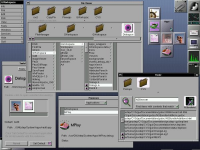
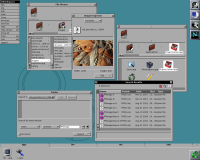
updated and enlarged gworkspace screenshots

diff --git a/experience/apps.html b/experience/apps.html
@@ -1,19 +1,18 @@
-<?xml version="1.0" encoding="utf-8"?>
-<!DOCTYPE html PUBLIC "-//W3C//DTD XHTML 1.0 Transitional//EN"
-    "http://www.w3.org/TR/xhtml1/DTD/xhtml1-transitional.dtd">
+<!DOCTYPE HTML PUBLIC "-//W3C//DTD XHTML 1.0 Transitional//EN" "http://www.w3.org/TR/xhtml1/DTD/xhtml1-transitional.dtd">
 <html xmlns="http://www.w3.org/1999/xhtml">
 <head>
-<title>GNUstep: User Applications</title>
-<link type="text/css" rel="stylesheet" href= "../gnustep-main.css" />
-<style type="text/css" media="screen">
+  <title>GNUstep: User Applications</title>
+  <link type="text/css" rel="stylesheet" href="../gnustep-main.css">
+  <style type="text/css" media="screen">
 /*<![CDATA[*/
                 @import "../gnustep-main-2.css";
 /*]]>*/
-</style>
-<meta http-equiv="Content-type" content= "text/html; charset=utf-8" />
+  </style>
+  <meta http-equiv="Content-type" content="text/html; charset=UTF-8">
 </head>
 <body>
-<div class="header"><a href="/"><img width="560" src= "../gnustep-header14.jpg" height="74" border="0" alt= "GNUstep.org" /></a></div>
+<div class="header"><a href="/"><img src="../gnustep-header14.jpg"
+ alt="GNUstep.org" width="560" border="0" height="74"></a></div>
 <div class="container">
 <div class="content">
 <div id="main">
@@ -25,30 +24,30 @@ out of the realm of programmers and make it more accessible to
 average users; there is a definite need to provide more
 standard applications.
 </p>
-
 <h2><a href="http://www.gnustep.org/softwareindex/">Software Index</a></h2>
-<p>The Software Index is a new tool to have a complete and easily maintained 
-repository of GNUstep based applications. It is not a replacement for an app
-home page. There is a hidden link which produces an XML property list 
-of the <a href="http://www.gnustep.org/softwareindex/plist.php">full database</a>.
-You can also use RSS to receive 
-<a href="http://www.gnustep.org/softwareindex/rss.php">update notifications</a>
+<p>The Software Index is a new tool to have a complete and easily
+maintained repository of GNUstep based applications. It is not a
+replacement for an app
+home page. There is a hidden link which produces an XML property list
+of the <a href="http://www.gnustep.org/softwareindex/plist.php">full
+database</a>.
+You can also use RSS to receive <a
+ href="http://www.gnustep.org/softwareindex/rss.php">update
+notifications</a>
 </p>
-
 <h2><a href="http://wiki.gnustep.org/index.php/Category:Applications">
 Applications List</a></h2>
 <p> The GNUstep Application List is a Wiki based list of applications</p>
-
 <p>Feel free to add your app to these lists. Also try
 <a href="http://www.freshmeat.net">Freshmeat</a>.
 </p>
 <p>GNUstep also has a decent set of <a href="examples.html">example
 applications</a> available.</p>
-
 <h2>Official GNUstep Applications</h2>
 <h3>The GNUstep Workspace</h3>
-<div class="thumbnail floatright"><a href=
-"../images/GWorkspace.jpg"><img src="../images/GWorkspace.jpg" alt= "GWorkspace running on GNUstep" /></a></div>
+<div class="thumbnail floatright"><a href="../images/GWorkspace.jpg"><img
+ src="../images/GWorkspaceSmall.png" alt="GWorkspace running on GNUstep"
+ style="border: 0px solid ; width: 200px; height: 160px;"></a></div>
 <p><i>GWorkspace</i> is the official GNUstep workspace manager. It
 is a clone of NeXT's workspace manager and already ready for daily
 usage.</p>
@@ -62,46 +61,44 @@ or
 GWorkspace User Guide</a>
 for more information.</p>
 <h3>The System Preferences</h3>
-<div class="thumbnail floatright"><a href=
-"screenshots/systempreferences-all.jpg"><img src="images/systempreferences-all-200.jpg" alt= "SystemPreferences running on GNUstep" /></a></div>
-<p><i>SystemPreferences</i> is the official preferences application for GNUstep.</p>
-<p>Please see <a href="systempreferences.html">SystemPreferences<a></p>
-<h3>Design Gallery</h3>
-<p>Please also visit our <a href=
-"../UserSuite/DesignGallery.html">Design Gallery</a> where you can
+<div class="thumbnail floatright"><a
+ href="screenshots/systempreferences-all.jpg"><img
+ src="images/systempreferences-all-200.jpg"
+ alt="SystemPreferences running on GNUstep"
+ style="border: 0px solid ; width: 200px; height: 147px;"></a></div>
+<p><i>SystemPreferences</i> is the official preferences application for
+GNUstep.</p>
+<p>Please see <a href="systempreferences.html">SystemPreferences</a><a></a></p>
+<h3><a>Design Gallery</a></h3>
+<p><a>Please also visit our </a><a
+ href="../UserSuite/DesignGallery.html">Design Gallery</a> where you
+can
 get the first impression of the icons which will be used in the
-final applications. Also look at the <a href=
-"http://freshmeat.net/projects/gnustep-icons/">GNUstep Icons</a>
+final applications. Also look at the <a
+ href="http://freshmeat.net/projects/gnustep-icons/">GNUstep Icons</a>
 project.</p>
-
 <h2>Misc Contributions</h2>
 <ul>
-<li><i><a href=
-"ftp://ftp.gnustep.org/pub/gnustep/contrib/AppsMenu.sh">AppsMenu.sh</a></i>
+  <li><i><a href="ftp://ftp.gnustep.org/pub/gnustep/contrib/AppsMenu.sh">AppsMenu.sh</a></i>
 - Automatically list apps in WindowMaker menu</li>
 </ul>
-</div></div>
-
 </div>
-
-<div class="sidebar">
-	
-  <a href="../">Home page</a><br />  
-  <a href="../information/aboutGNUstep.html">Introduction</a><br />
-  <a href="../experience/apps.html">Applications</a><br />
-  <a href="../resources/sources.html">Download</a><br />
-  <a href="http://wiki.gnustep.org/index.php/User_Guides">User Guides</a><br />
-  <a href="http://wiki.gnustep.org/index.php/Blogs">Developer Blogs</a><br />
-  <a href="../developers">Developers</a><br />
-  <a href="http://wiki.gnustep.org/index.php/GNUstepWiki:Site_support">Donations</a><br />
-  <a href="http://wiki.gnustep.org/index.php/Get_Help">Get Help</a><br />
-  <br />
-  <a href="http://wiki.gnustep.org/index.php/Report_Bugs">Report Bugs</a><br />
-  <a href="http://wiki.gnustep.org/">Project Wiki</a><br />
-  <br />
-  Site by <a href="mailto:webmasters@gnustep.org">webmasters@gnustep.org</a>
-
 </div>
-
+</div>
+<div class="sidebar"> <a href="../">Home page</a><br>
+<a href="../information/aboutGNUstep.html">Introduction</a><br>
+<a href="../experience/apps.html">Applications</a><br>
+<a href="../resources/sources.html">Download</a><br>
+<a href="http://wiki.gnustep.org/index.php/User_Guides">User Guides</a><br>
+<a href="http://wiki.gnustep.org/index.php/Blogs">Developer Blogs</a><br>
+<a href="../developers">Developers</a><br>
+<a href="http://wiki.gnustep.org/index.php/GNUstepWiki:Site_support">Donations</a><br>
+<a href="http://wiki.gnustep.org/index.php/Get_Help">Get Help</a><br>
+<br>
+<a href="http://wiki.gnustep.org/index.php/Report_Bugs">Report Bugs</a><br>
+<a href="http://wiki.gnustep.org/">Project Wiki</a><br>
+<br>
+Site by <a href="mailto:webmasters@gnustep.org">webmasters@gnustep.org</a>
+</div>
 </body>
 </html>

diff --git a/gnustep-main.css b/gnustep-main.css
@@ -35,12 +35,12 @@ h1,h2,h3,h4 {
 	border: 1px solid #b2b2b2;
 	margin: 15px;
 	display: block;
-	width: 144px;
+	width: 200px;
 }
 
 .thumbnail img
 {
-	width: 144px;
+	width: 200px;
 }
 
 .thumbnail a img
@@ -125,5 +125,5 @@ dt .aux { font-weight: lighter; float: right }
 dd { padding: 0 0 1em 2em; clear: both; }
 p { margin-top: 1em; }
 
-/* $Revision: 1.8 $ */
+/* $Revision: 1.9 $ */
 
